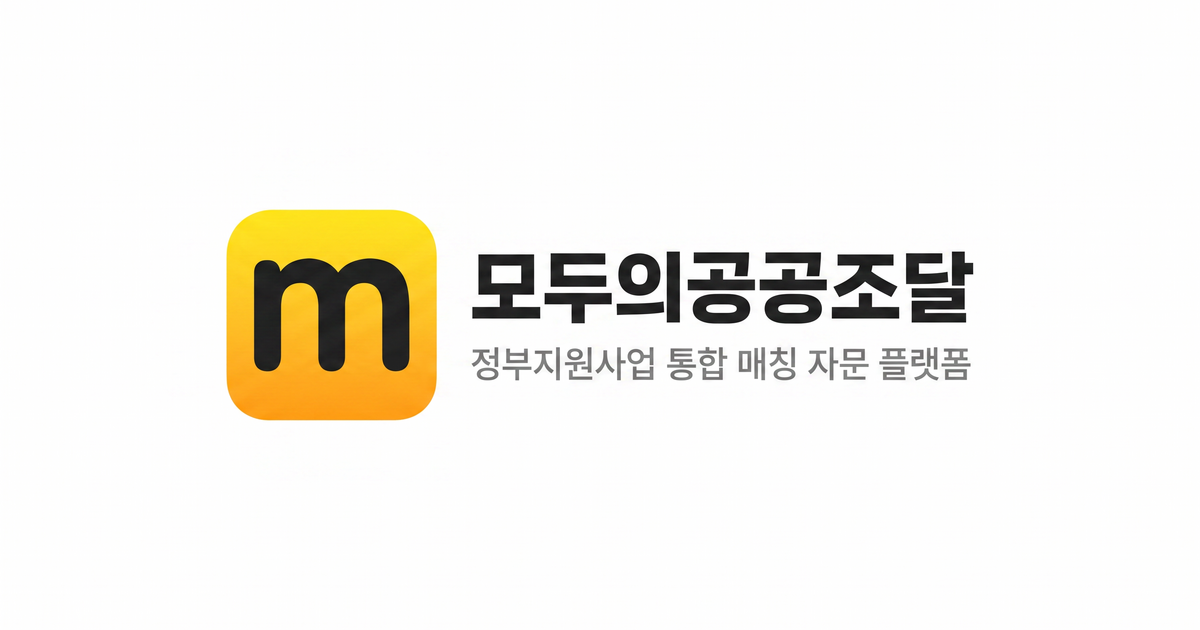
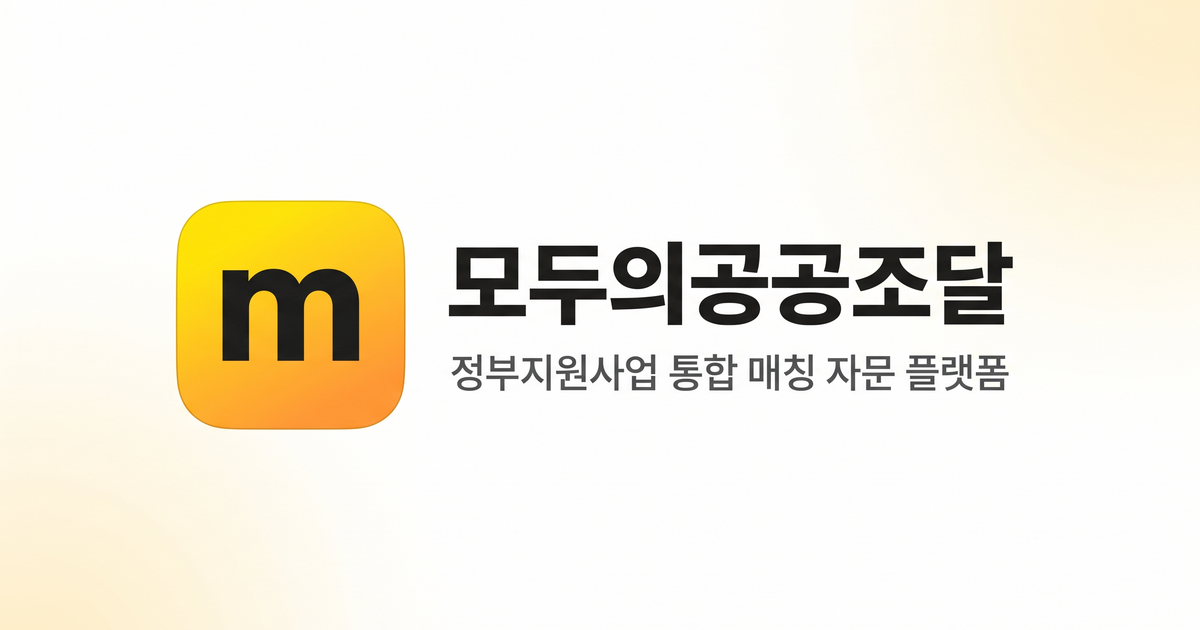
OG 링크 미리보기 이미지: 브랜드 로고 가로형(m 아이콘+모두의공공조달+태그라인, 영어 제외) 1200x630 교체 + metadataBase 추가

Changed region(s): [[0.1233, 0.3016, 0.8633, 0.6937], [0.7708, 0.0, 1.0, 0.3921], [0.0, 0.6635, 0.2467, 1.0]]

diff --git a/src/app/layout.tsx b/src/app/layout.tsx
@@ -1,7 +1,11 @@
 import type { Metadata, Viewport } from "next";
 import "./globals.css";
 
+const SITE_URL =
+  process.env.NEXT_PUBLIC_SITE_URL || "https://www.모두의공공조달.kr";
+
 export const metadata: Metadata = {
+  metadataBase: new URL(SITE_URL),
   title: "모두의공공조달 | 정부지원사업 통합 매칭 자문 플랫폼",
   description:
     "정책자금 브로커 수수료 5%, 아직도 비싸게 쓰고 계신가요? 99,000원으로 직접 방법을 배워 무료로 신청하세요. 정책자금·정부지원금·창업지원·바우처·인증·교육 통합 자문 서비스.",
